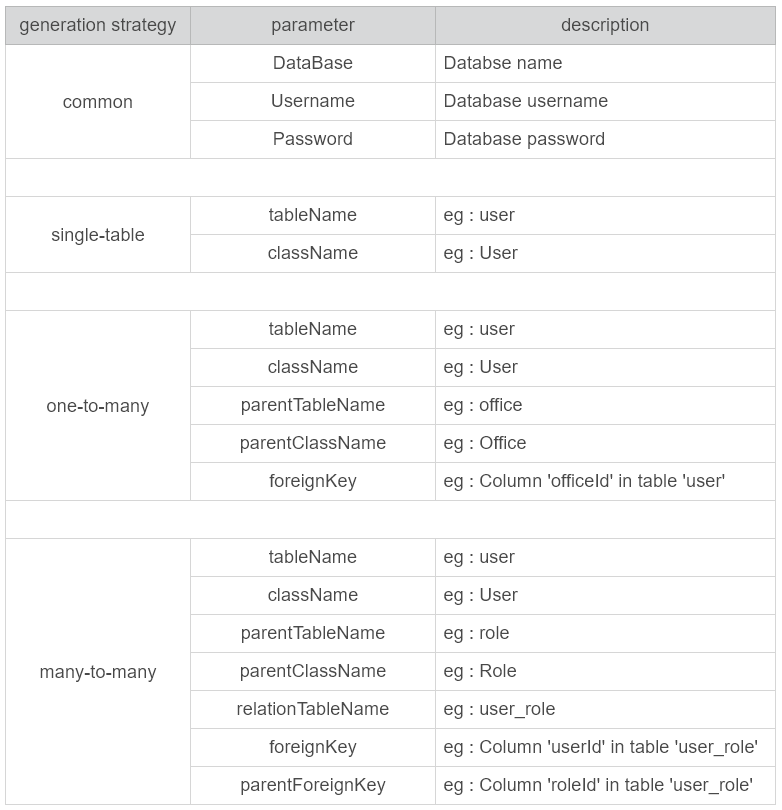
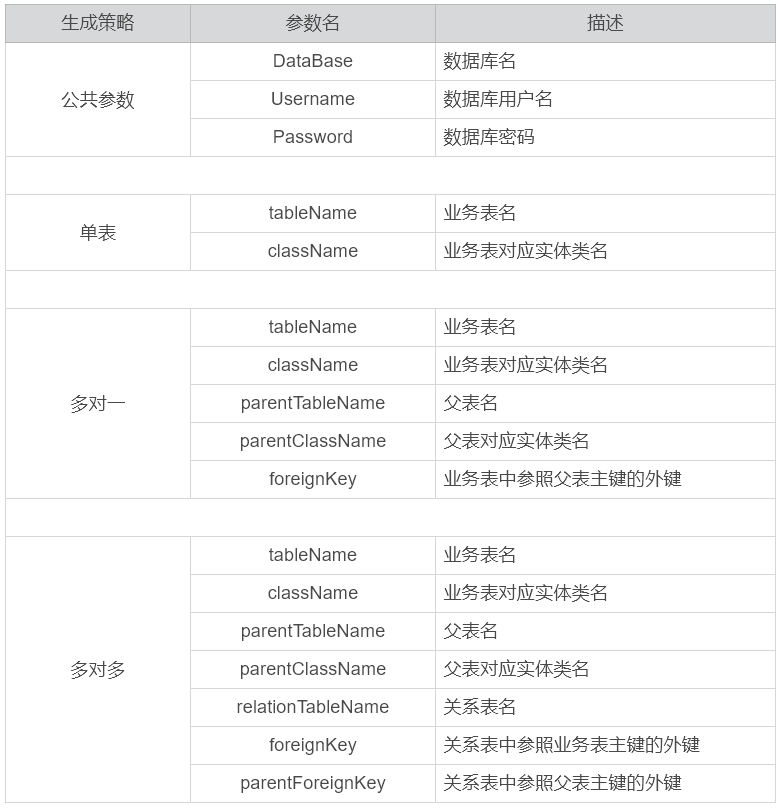
Modify README.md

diff --git a/README.md b/README.md
@@ -1,106 +1,120 @@
-# Welcome to the code generator
 
-Generator is a Java code generating tool based on **Spring, SpringMVC, Mybatis and MySql**.
+# 欢迎来到 Generator
 
-You may use Generator:
+Generator 是一款基于 **Spring, SpringMVC, Mybatis and MySql** 架构的Java代码生成工具.  
 
-> * Generate entity classes based on database tables.
-> * Generate Mapper files that contains the insert, delete, select and update operations.
-> * Generate Dao, Service, Controller codes.
+你可以使用Generator：
+> * 根据数据库业务表生成实体类
+> * 生成包含简单的增、删、查、改操作的Mapper文件
+> * 生成Controller、Service、Dao代码
 
-# Getting Start
+  
+# Getting Start  
 
-## Configure the framework
+## 添加依赖
 
-### Define template files
+    <dependency>
+	    <groupId>com.greedystar</groupId>
+	    <artifactId>generator</artifactId>
+	    <version>1.0.0</version>
+	</dependency>
 
-The template files are the basis for code generation and need to be placed in the resources/ftls/ directory. 
+  
+## 配置框架
+  
+### 定义模板文件
+  
+模板文件是代码生成的基础，框架提供了默认的模板文件，位于 src/main/resources/ftls/ 目录下。用户可根据项目的具体架构自定义模板文件，具体请请参考默认的 ftl 文件。
 
-The template files can be customized according to the specific schema of the project. For the custom template files, please refer to xxx.ftl files that under the resources/ftls directory.
+####  注意：若需要自定义模板，则需在项目目录的 resources/ftls/ 目录下放置框架所需的所有模板文件，且保证模板文件名与默认一致。其中，Mapper.ftl 用于单表关系和一对多关系，Mapper_M2M.ftl为多对多关系。
+#### 示例如下 ：
+> resources  
+>> ftls  
+>>> Controller.ftl<br>  
+>>> Service.ftl<br>  
+>>> Dao.ftl<br>  
+>>> Entity.ftl<br>  
+>>> Mapper.ftl<br>  
+>>> Mapper_M2M.ftl<br>  
+  
+  
+### 配置公共参数
 
-#### Note : 
-Mapper.ftl is used for the single-table relationship and one-to-many relationship, and Mapper_M2M.ftl is used for the many-to-many relationship.
+用户可在 resources 目录下创建 generator.yaml 文件，配置代码生成器的公共参数 ，示例如下：
 
-If you need to customize the template files, you need to place all the template files required by the framework in the resources/ftls/ directory, and make sure that the template files' name is consistent with the default.
+    author: GreedyStar // 代码作者
+    packageName: com.greedystar.test // 基础包名
+    path: // 各模块包名（路径）
+	    controller: controller
+	    service: service
+	    dao: dao
+	    entity: entity
+	    mapper: mappers
 
-#### The example is as follows:
-> resources
->> ftls
->>> Controller.ftl<br>
->>> Service.ftl<br>
->>> Dao.ftl<br>
->>> Entity.ftl<br>
->>> Mapper.ftl<br>
->>> Mapper_M2M.ftl<br>
+上述配置将会生成如下路径的代码：
+
+    com.greedystar.test
+        controller
+            UserController.java 
+        service
+            UserService.java 
+        dao
+            UserDao.java 
+        entity
+            User.java 
+    mappers/XXXMapper.xml  
 
 
-### Configure global parameters
-You can create the generator.yaml file under the resources directory to configure global parameters, otherwise the framework will use the default configuration, example as follows:
+## 开始生成代码 
 
-    author: Tom
-    packageName: com.tom
-    path:
-        controller: controller
-        service: service
-        dao: dao
-        entity: entity
-        mapper: mappers
-    
+示例使用的数据库业务表如下所示：
 
-The above configuration generates the code for the following package path:
-
-    com.tom.controller.XXXController.java
-    ...
-    mappers/XXXMapper.xml
-
-## Start generating code
-The database tables used in the example are as follows:
-![image](https://github.com/GreedyStar/generator/raw/master/screenshots/tables.png)
-
-### single-table relationship
-```
-Invoker invoker = new SingleInvoker.Builder()
-        .setDatabase("generator-demo")
-        .setUsername("root")
-        .setPassword(null) // Nullable
-        .setTableName("user")
-        .setClassName("User") // Nullable. If it is empty, it is automatically generated based on the table name,for example: user->User，sys_role->SysRole
-        .build();
-invoker.execute();
-```
-### one-to-many relationship
-```
-Invoker invoker = new One2ManyInvoker.Builder()
-        .setDatabase("generator-demo")
-        .setUsername("root")
-        .setPassword(null) // Nullable
-        .setTableName("user")
-        .setClassName("User") // Nullable
-        .setParentTableName("office")
-        .setParentClassName("Office") // Nullable
-        .setForeignKey("officeId")
-        .build();
-invoker.execute();
-```
-### many-to-many relationship
-```
-Invoker invoker = new Many2ManyInvoker.Builder()
-        .setDatabase("generator-demo")
-        .setUsername("root")
-        .setPassword(null) // Nullable
-        .setTableName("user")
-        .setClassName("User") // Nullable
-        .setParentTableName("role")
-        .setParentClassName("Role") // Nullable
-        .setRelationTableName("user_role")
-        .setForeignKey("userId")
-        .setParentForeignKey("roleId")
-        .build();
-invoker.execute();
-```
-# Parameters to describe
-
-## Invoker Parameters
-![image](https://github.com/GreedyStar/generator/raw/master/screenshots/invoker_parameters.jpg)
-## Template file parameters
-![image](https://github.com/GreedyStar/generator/raw/master/screenshots/template_parameters.png)
+![image](https://github.com/GreedyStar/generator/raw/master/screenshots/tables.png)  
+  
+### 单表关系
+```  
+Invoker invoker = new SingleInvoker.Builder()  
+	.setDatabase("generator-demo")
+	.setUsername("root")
+	.setPassword(null) // 可空
+	.setTableName("user")
+	.setClassName("User") // 可空. 若空则自动根据表明生成类名，如: user->User，sys_role->SysRole  
+	.build();
+invoker.execute();  
+```  
+### 一对多关系
+```  
+Invoker invoker = new One2ManyInvoker.Builder()  
+	.setDatabase("generator-demo")
+	.setUsername("root")
+	.setPassword(null) // 可空
+	.setTableName("user")
+	.setClassName("User") // 可空
+	.setParentTableName("office")
+	.setParentClassName("Office") // 可空
+	.setForeignKey("officeId")
+	.build();
+invoker.execute();  
+```  
+### 多对多关系 
+```  
+Invoker invoker = new Many2ManyInvoker.Builder()  
+	.setDatabase("generator-demo") 
+	.setUsername("root") 
+	.setPassword(null) // 可空 
+	.setTableName("user") 
+	.setClassName("User") // 可空 
+	.setParentTableName("role") 
+	.setParentClassName("Role") // 可空
+	.setRelationTableName("user_role") 
+	.setForeignKey("userId") 
+	.setParentForeignKey("roleId") 
+	.build();
+invoker.execute();  
+```  
+# 参数描述
+  
+## Invoker 参数
+![image](https://github.com/GreedyStar/generator/raw/master/screenshots/invoker_parameters.jpg)  
+## 模板文件参数
+![image](https://github.com/GreedyStar/generator/raw/master/screenshots/template_parameters.jpg)
